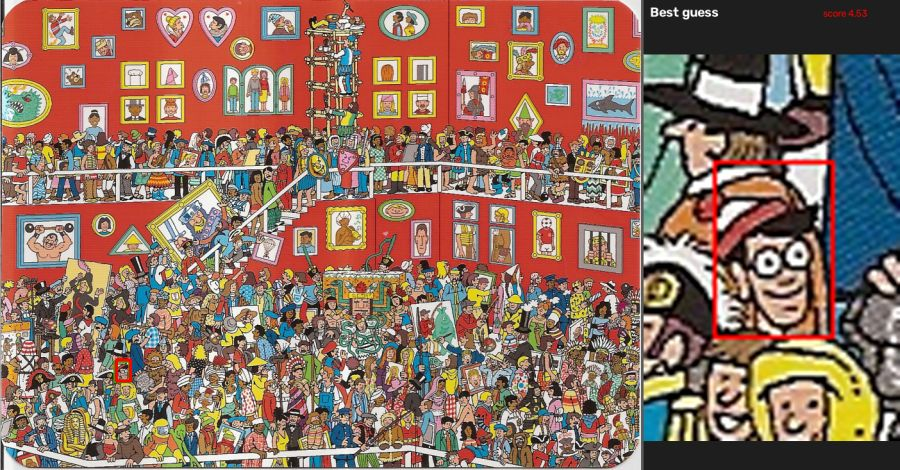
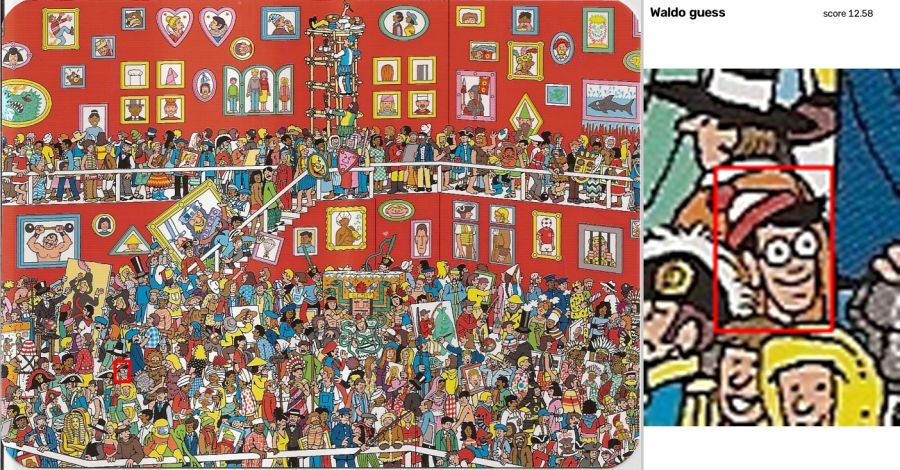
White side panel with black text, headed Waldo guess

Changed region(s): [[0.6844, 0.0, 1.0, 1.0], [0.1244, 0.7447, 0.1556, 0.834]]

diff --git a/waldo/visualize.py b/waldo/visualize.py
@@ -5,6 +5,7 @@ import numpy as np
 
 GREEN = (0, 200, 0)
 RED = (0, 0, 255)
+BLACK = (0, 0, 0)
 MAX_DISPLAY = 1000  # longest side of the scene panel, in pixels
 
 
@@ -45,14 +46,14 @@ def draw_side_panel(scene_bgr, best, truth=None, pad=0.6, panel_frac=0.4):
     zoom_scale = min(panel_w / crop.shape[1], (left_h - header) / crop.shape[0])
     zoom = cv2.resize(crop, None, fx=zoom_scale, fy=zoom_scale, interpolation=cv2.INTER_CUBIC)
 
-    panel = np.full((left_h, panel_w, 3), 30, dtype=np.uint8)
-    cv2.putText(panel, "Best guess", (10, 26), cv2.FONT_HERSHEY_SIMPLEX, 0.7, (255, 255, 255), 2, cv2.LINE_AA)
-    cv2.putText(panel, f"score {best['score']:.2f}", (panel_w - 120, 26), cv2.FONT_HERSHEY_SIMPLEX, 0.5, RED, 1, cv2.LINE_AA)
+    panel = np.full((left_h, panel_w, 3), 255, dtype=np.uint8)
+    cv2.putText(panel, "Waldo guess", (10, 26), cv2.FONT_HERSHEY_SIMPLEX, 0.7, BLACK, 2, cv2.LINE_AA)
+    cv2.putText(panel, f"score {best['score']:.2f}", (panel_w - 120, 26), cv2.FONT_HERSHEY_SIMPLEX, 0.5, BLACK, 1, cv2.LINE_AA)
     ox = (panel_w - zoom.shape[1]) // 2
     oy = header + (left_h - header - zoom.shape[0]) // 2
     panel[oy:oy + zoom.shape[0], ox:ox + zoom.shape[1]] = zoom
 
-    separator = np.full((left_h, 4, 3), 90, dtype=np.uint8)
+    separator = np.full((left_h, 4, 3), 200, dtype=np.uint8)
     return np.hstack([left, separator, panel])
 
 
